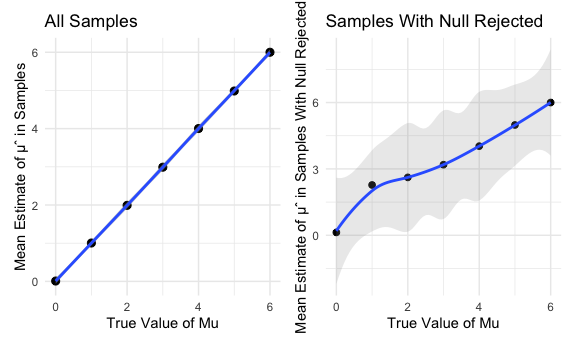
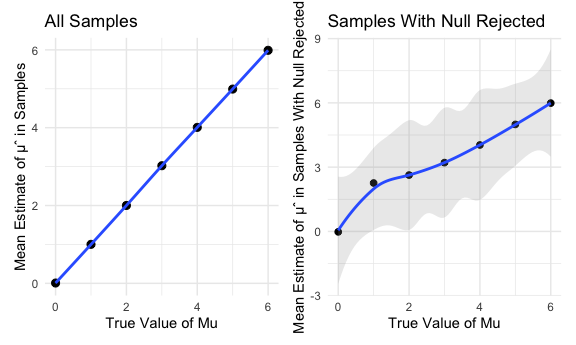
Finished HW5

diff --git a/p8105_hw5_jl6321.md b/p8105_hw5_jl6321.md
@@ -1,8 +1,6 @@
 p8105_hw5_jl6321.Rmd
 ================
 
-## Problem 1
-
 ## Problem 2
 
 ``` r
@@ -233,3 +231,8 @@ first_plot + second_plot
     ## `geom_smooth()` using method = 'loess' and formula 'y ~ x'
 
 <img src="p8105_hw5_jl6321_files/figure-gfm/unnamed-chunk-12-1.png" width="90%" />
+
+Based on the plot, when the true value of mu is small, the average
+estimate of μˆ deviates from the true value of mu, implying publication
+bias. . However, as the effect size increases, the average estimate of
+μˆ gets closer to the true value of mu since power increases.
